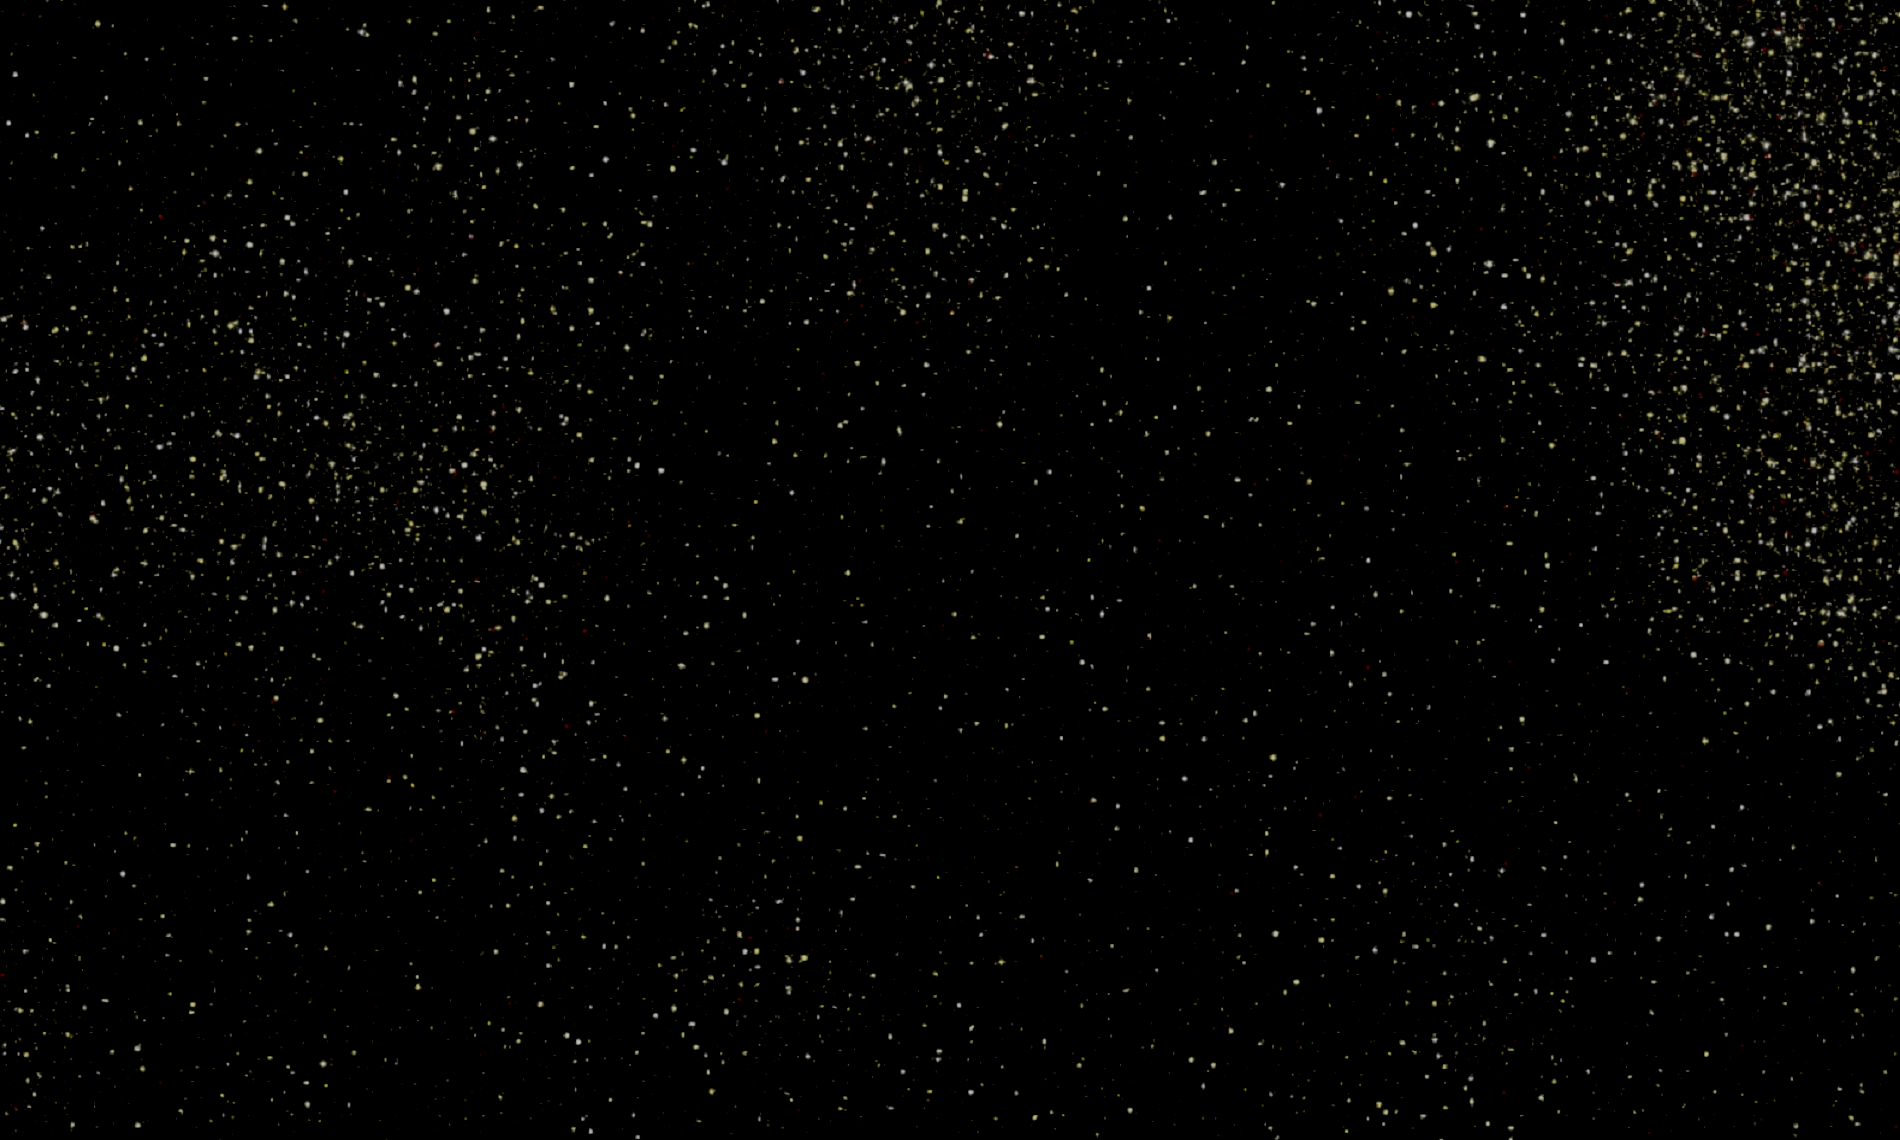
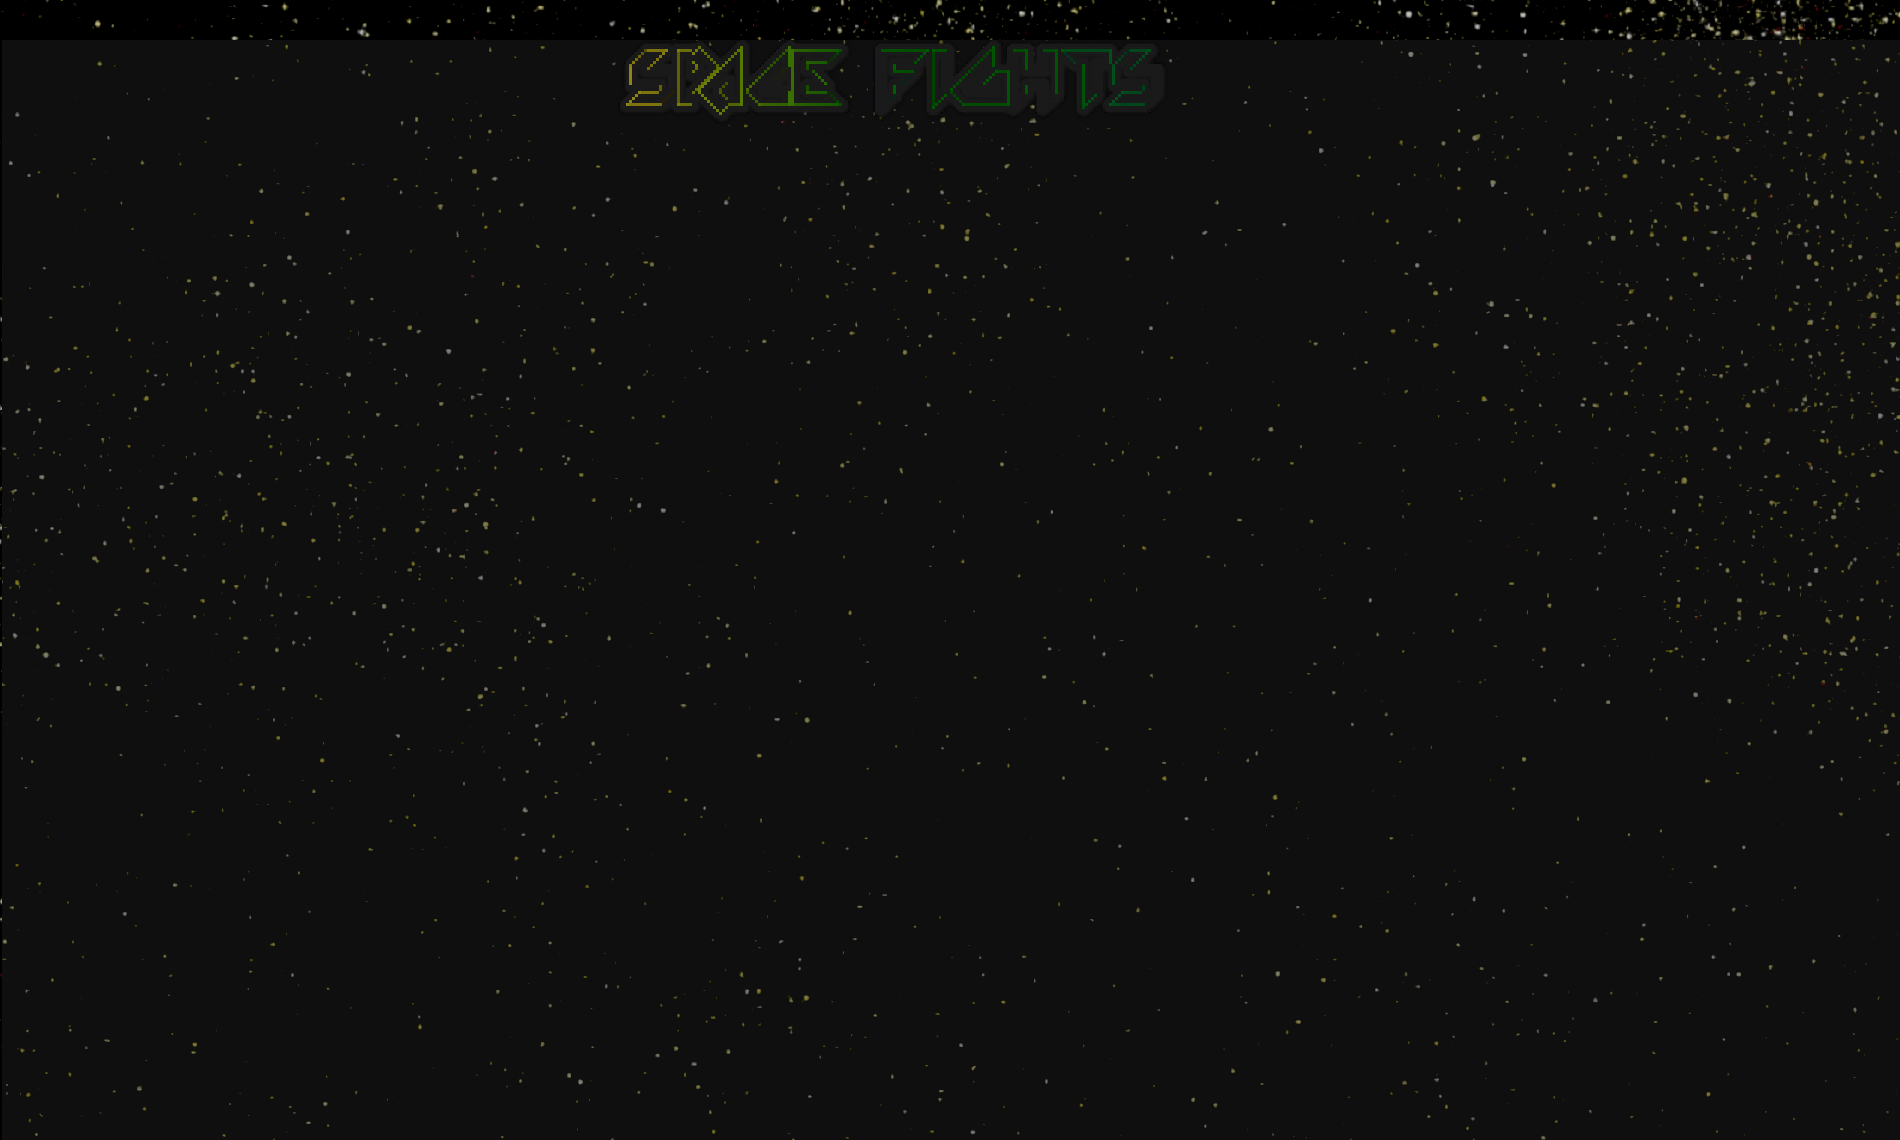
adding some more level attributes
pew pew!

diff --git a/GameEngine/src/edu/virginia/lab1test/SpaceFights.java b/GameEngine/src/edu/virginia/lab1test/SpaceFights.java
@@ -24,7 +24,7 @@ public class SpaceFights extends Game {
 	static int gameWidth = 1800;
 	static int gameHeight = 1000;
 	static double dampen = -0.65;
-	Sprite scene, plat1, plat2, plat3, plat4, plat5;
+	Sprite scene, plat1, plat2, plat3, plat4, plat5, plat6, plat7, plat8, plat9, plat10, plat11, plat12, plat13, plat14, plat15;
 	Ship player1, player2, player3;
 //	Sprite p1nrgFront, p1nrgBack, p2nrgFront, p2nrgBack;
 	ArrayList<Sprite> platforms = new ArrayList<Sprite>();
@@ -43,7 +43,7 @@ public class SpaceFights extends Game {
 		players.add(player2);
 //		players.add(player3);
 		
-		scene = new Sprite("scene", "backgroundSF.png");
+		scene = new Sprite("scene", "background.png");
 		scene.setScaleX(1);
 
 /*		p1nrgFront = new Sprite("nrgFront", "frontNRG.png");
@@ -57,14 +57,41 @@ public class SpaceFights extends Game {
 		plat2.setScaleX(9);
 		plat2.setScaleY(9);
 		plat3 = new Sprite("plat3", "platformSpaceVertical.png");
-//		plat4 = new Sprite("plat4", "platformSmall.png");
-//		plat5 = new Sprite("plat5", "platformSmall.png");
+		plat4 = new Sprite("plat4", "platformSpace.png");
+		plat5 = new Sprite("plat5", "platformSpace.png");
+		plat6 = new Sprite("plat6", "platformSpace.png");
+		plat7 = new Sprite("plat7", "platformSpace.png");
+		plat8 = new Sprite("plat8", "platformSpace.png");
+		plat9 = new Sprite("plat9", "platformSpace.png");
+		plat10 = new Sprite("plat10", "platformSpace.png");
+		plat11 = new Sprite("plat11", "platformSpace.png");
+		plat12 = new Sprite("plat12", "platformSpace.png");
+		plat13 = new Sprite("plat13", "platformSpaceVertical.png");
+		plat14 = new Sprite("plat14", "platformSpace.png");
+		plat15 = new Sprite("plat15", "platformSpaceVertical.png");
+
+
+
+
+
 
 		platforms.add(plat1);
      	platforms.add(plat2);
 		platforms.add(plat3);
-//		platforms.add(plat4);
-//		platforms.add(plat5);
+		platforms.add(plat4);
+		platforms.add(plat5);
+		platforms.add(plat6);
+		platforms.add(plat7);
+		platforms.add(plat8);
+		platforms.add(plat9);
+		platforms.add(plat10);
+		platforms.add(plat11);
+		platforms.add(plat12);
+		platforms.add(plat13);
+		platforms.add(plat14);
+		platforms.add(plat15);
+
+		
 
 		
 		collisionManager = new CollisionManager();
@@ -100,6 +127,30 @@ public class SpaceFights extends Game {
 		plat1.setPosition(400, 250);
 		plat2.setPosition(900, 300);
 		plat3.setPosition(1350, 470);
+		plat4.setPosition(0, 920);
+		plat5.setPosition(plat4.getWidth(), 925);
+		plat6.setPosition(plat4.getWidth() * 2, 925);
+		plat7.setPosition(plat4.getWidth() * 3, 925);
+		plat8.setPosition(plat4.getWidth() * 4, 925);
+		plat9.setPosition(plat4.getWidth() * 5, 925);
+		plat10.setPosition(plat4.getWidth() * 6, 925);
+		plat11.setPosition(plat4.getWidth() * 7, 925);
+		plat12.setPosition(plat4.getWidth() * 8, 925);
+		plat13.setPosition(0,0);
+		plat13.setScaleY(10);
+		plat14.setPosition(1,0);
+		plat14.setScaleX(10);
+		plat15.setPosition(gameWidth - plat15.getWidth(), 0);
+		plat15.setScaleY(10);
+
+		
+	
+
+
+
+
+
+
 
 //		plat3.setPosition(300, 348 +  2*plat2.getHeight());
 //		plat4.setPosition(300, 347 + 3*plat2.getHeight());
@@ -133,14 +184,14 @@ public class SpaceFights extends Game {
 //			p2nrgFront.setScaleX((double) player2.getNrg() / player2.getShipType().getNrgCap());
 			for(Ship player: players) {
 				Point shipPos = player.getPosition();
-				if (shipPos.x <= 0) {
+				if (shipPos.x < 0) {
 					player.setXPosition(0);
 					player.setXv(-player1.getXv());
 				} else if (shipPos.x > gameWidth - player.getWidth()) {
 					player.setXPosition(gameWidth - player.getWidth());
 					player.setXv(dampen * player1.getXv());
 				}
-				if (shipPos.y <= 0) {
+				if (shipPos.y < 0) {
 					player.setYPosition(0);
 					player.setYv(dampen * player.getYv());
 				} else if (shipPos.y > gameHeight - player.getHeight()) {
